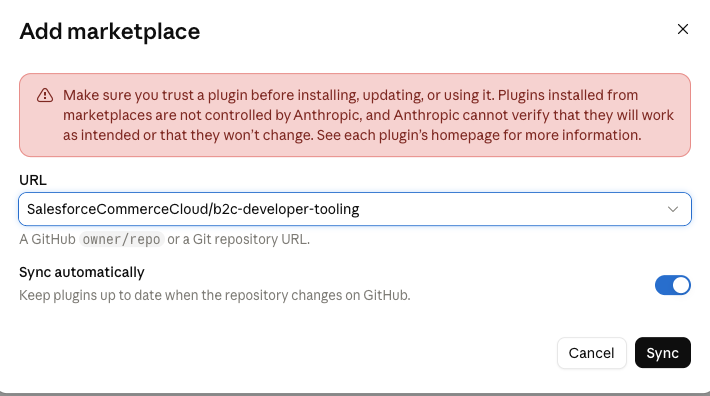
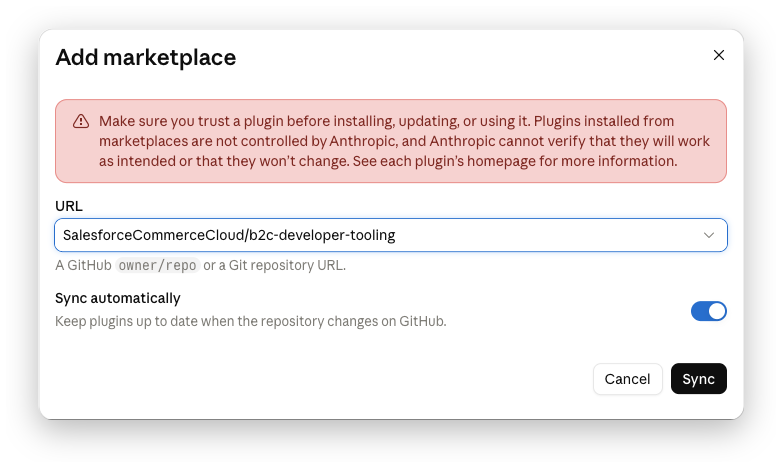
Add Desktop Assistants screenshots and Codex desktop install steps
Replace the placeholders with app-window screenshots, rename the Claude
Cowork section to Claude Desktop (Cowork), and document installing the
plugin from the Codex desktop app.

diff --git a/docs/guide/desktop-assistants.md b/docs/guide/desktop-assistants.md
@@ -4,20 +4,20 @@ description: Install the B2C Commerce MCP server and skills in Claude Cowork, Cl
 
 # Desktop Assistants
 
-Claude Cowork and ChatGPT Work run B2C Commerce tasks from the desktop, outside a
+Claude Desktop (Cowork) and ChatGPT Work run B2C Commerce tasks from the desktop, outside a
 code editor or terminal. Each app installs plugins from its own source, so a plugin
 installed in one Claude or ChatGPT surface is not always available in another.
 
 The **b2c-dx-mcp** plugin includes the [B2C MCP](../mcp/) tools, documentation,
 and [skill collections](./agent-skills). No separate skills installation is needed.
 
-| Surface                     | Where plugins come from      | Setup                                    |
-| --------------------------- | ---------------------------- | ---------------------------------------- |
-| Claude Cowork               | Marketplaces added in Cowork | [Claude Cowork](#claude-cowork)          |
-| Claude Desktop **Code** tab | Claude Code plugins          | [Claude Code setup](../mcp/#setup)       |
-| Claude Desktop chat         | Desktop MCP configuration    | [Claude Desktop](../mcp/#claude-desktop) |
-| ChatGPT Work                | Codex plugins                | [ChatGPT Work](#chatgpt-work)            |
-| ChatGPT online              | Secure MCP Tunnel            | [ChatGPT online](../mcp/#chatgpt)        |
+| Surface                         | Where plugins come from              | Setup                                     |
+| ------------------------------- | ------------------------------------ | ----------------------------------------- |
+| Claude Desktop (Cowork)         | Marketplaces added in Claude Desktop | [Claude Desktop (Cowork)](#claude-cowork) |
+| Claude Desktop **Code** tab     | Claude Code plugins                  | [Claude Code setup](../mcp/#setup)        |
+| Claude Desktop without a plugin | Desktop MCP configuration            | [Manual setup](../mcp/#claude-desktop)    |
+| ChatGPT Work                    | Codex plugins                        | [ChatGPT Work](#chatgpt-work)             |
+| ChatGPT online                  | Secure MCP Tunnel                    | [ChatGPT online](../mcp/#chatgpt)         |
 
 ## Before you start
 
@@ -25,75 +25,80 @@ Install [Node.js](https://nodejs.org/) 22.16.0 or higher. The plugin starts the
 MCP server on your computer with `npx`. Connected tasks use your existing
 [B2C Commerce configuration](./configuration).
 
-## Claude Cowork {#claude-cowork}
+## Claude Desktop (Cowork) {#claude-cowork}
 
-Cowork installs plugins separately from Claude Code. Plugins installed with
-`claude plugin install` are available in the Desktop **Code** tab, not in Cowork.
+Claude Desktop runs tasks from **Home**; this was previously the separate Cowork
+mode. It installs plugins separately from Claude Code. Plugins installed with
+`claude plugin install` are available in the **Code** tab, not on **Home**.
 
 1. Add a marketplace with the URL `SalesforceCommerceCloud/b2c-developer-tooling`.
    Keep **Sync automatically** on to receive updates.
 
    [![Claude Add marketplace dialog with SalesforceCommerceCloud/b2c-developer-tooling entered as the URL and Sync automatically turned on.](/screenshots/claude-cowork-add-marketplace.png)](/screenshots/claude-cowork-add-marketplace.png)
 
-2. Install **b2c-dx-mcp**. Cowork confirms that the plugin runs a local MCP server
-   with access to everything available to Cowork.
+2. Install **b2c-dx-mcp**. Claude warns that the plugin runs a local MCP server
+   with access to everything available to Cowork. Select **Continue**.
 
-   ![Screenshot placeholder: Cowork confirming that the b2c-dx-mcp plugin includes a local MCP server.](/placeholders/cowork-install-mcp.svg)
+   [![Cowork dialog warning that the B2C DX MCP plugin includes the local b2c-dx-mcp server, with Disable plugin and Continue buttons.](/screenshots/claude-cowork-install-mcp.png)](/screenshots/claude-cowork-install-mcp.png)
 
 3. Optionally install skill collections such as **b2c**, **b2c-cli**, or **b2c-ops**
    to load their guidance directly. The MCP already provides them through
    [`skills_read`](../mcp/toolsets#documentation).
-4. Start a new Cowork task.
+4. Start a new task from **Home**. If your message box still shows **Chat** and
+   **Cowork** options, choose **Cowork**.
 
 <ExamplePrompt>
 
-> Were there any problems with last night's jobs on my site? Let me know what needs attention.
+> Were there any failing jobs recently on my site?
 
 </ExamplePrompt>
 
-![Screenshot placeholder: a Cowork task reviewing last night's job runs with B2C MCP tools.](/placeholders/cowork-b2c-task.svg)
-
-::: warning Artifacts and live data
-Cowork artifacts, such as dashboards, cannot call the B2C MCP tools directly yet;
-calls from an artifact fail with `Tool call failed: 400`. Ask Cowork to embed the
-data in the artifact instead, and use a scheduled task to refresh it, for example
-every weekday morning. A **Refresh now** button in the artifact can run that task
-on demand. For live data, ask for a dashboard that runs on your computer instead.
-:::
+[![A Claude Desktop task answering "Were there any failing jobs recently on bdpx-prd?" after using 6 B2C MCP tools, with a table of two failing system jobs, their failure counts, and failure patterns.](/screenshots/claude-cowork-b2c-task.png)](/screenshots/claude-cowork-b2c-task.png)
 
 ## ChatGPT Work {#chatgpt-work}
 
 ChatGPT Work uses the plugins installed for Codex. If you already installed the
 B2C plugin for the Codex CLI or IDE extension, it is available in ChatGPT Work.
-Otherwise, install it with the Codex CLI:
+Otherwise, install it from the Codex desktop app:
+
+1. Open **Settings > Plugins** and select **Add > Add marketplace**. Enter
+   `SalesforceCommerceCloud/b2c-developer-tooling` as the source, leave the
+   other fields empty, and select **Add marketplace**.
+
+   [![Codex Add plugin marketplace dialog with SalesforceCommerceCloud/b2c-developer-tooling entered as the source.](/screenshots/codex-add-marketplace.png)](/screenshots/codex-add-marketplace.png)
+
+2. Open **Plugins**, select the **Personal** tab, choose **B2C DX MCP**, and
+   select **Install plugin**.
+
+   [![Codex plugin page for B2C DX MCP from the B2C Developer Tooling marketplace, showing the Install plugin button and the b2c-dx-mcp server.](/screenshots/codex-install-mcp.png)](/screenshots/codex-install-mcp.png)
+
+To install from a terminal instead, use the Codex CLI:
 
 <!--@include: ../_partials/mcp-plugin-codex.md-->
-
-![Screenshot placeholder: the B2C Developer Tooling plugins available in ChatGPT Work.](/placeholders/chatgpt-work-install.svg)
 
 Start a new ChatGPT Work task. To update or remove the plugin, use the
 [Codex commands](./agent-skills#codex).
 
 <ExamplePrompt>
 
-> Summarize the promotions in campaign spring-sale. Flag schedule conflicts and disabled promotions.
+> Summarize the current promotions and campaigns on my site. Any schedule conflicts?
 
 </ExamplePrompt>
 
-![Screenshot placeholder: ChatGPT Work reviewing campaign promotions with B2C MCP tools.](/placeholders/mcp-chatgpt-campaign.svg)
+[![ChatGPT Work listing schedule overlaps across a site's campaigns: open-ended seasonal offers, overlapping order, shipping, and product discounts, and a test campaign still active.](/screenshots/chatgpt-work-campaign.png)](/screenshots/chatgpt-work-campaign.png)
 
 ChatGPT online in a browser does not use Codex plugins. To connect it, see
 [ChatGPT online](../mcp/#chatgpt).
 
 ## Troubleshooting
 
-| Problem                   | What to check                                                                                                               |
-| ------------------------- | --------------------------------------------------------------------------------------------------------------------------- |
-| Plugin is missing         | Check that you installed it for this surface. Cowork and Claude Code install separately; ChatGPT Work shares Codex plugins. |
-| Server does not start     | Run `node --version` and confirm Node.js 22.16.0 or higher. Restart the app after installing Node.js.                       |
-| Wrong project or instance | Specify the intended project or named instance in your request.                                                             |
-| Old tools or skills       | Update the marketplace or plugin, then start a new task.                                                                    |
-| Artifact shows no data    | Cowork artifacts cannot call local MCP tools. Embed the data and refresh it with a scheduled task.                          |
+| Problem                   | What to check                                                                                                                                |
+| ------------------------- | -------------------------------------------------------------------------------------------------------------------------------------------- |
+| Plugin is missing         | Check that you installed it for this surface. Claude Desktop (Cowork) and Claude Code install separately; ChatGPT Work shares Codex plugins. |
+| Server does not start     | Run `node --version` and confirm Node.js 22.16.0 or higher. Restart the app after installing Node.js.                                        |
+| Wrong project or instance | Specify the intended project or named instance in your request.                                                                              |
+| Old tools or skills       | Update the marketplace or plugin, then start a new task.                                                                                     |
+| Artifact shows no data    | Cowork artifacts cannot call local MCP tools. Embed the data and refresh it with a scheduled task.                                           |
 
 See [MCP troubleshooting](../mcp/#troubleshooting) for authentication and
 configuration issues.

diff --git a/docs/mcp/index.md b/docs/mcp/index.md
@@ -27,7 +27,7 @@ Our plugins use the open [Agent Plugins standard](https://agent-plugins.org/).
 
 </AssistantInstall>
 
-For Claude Cowork and ChatGPT Work, see [Desktop Assistants](../guide/desktop-assistants).
+For Claude Desktop (Cowork) and ChatGPT Work, see [Desktop Assistants](../guide/desktop-assistants).
 For [Claude Desktop](#claude-desktop), [Copilot CLI](#copilot-cli), [ChatGPT online](#chatgpt),
 and other clients, see [Other clients](#other-clients).
 
@@ -127,8 +127,8 @@ can help your assistant recognize when to use B2C tools and skills.
 
 ### Claude Desktop {#claude-desktop}
 
-For Cowork, install the plugin instead; see [Claude Cowork](../guide/desktop-assistants#claude-cowork).
-For Claude Desktop chat, open **Settings > Developer > Edit Config** and add:
+To run tasks from Claude Desktop **Home** (Cowork), install the plugin instead; see [Claude Desktop (Cowork)](../guide/desktop-assistants#claude-cowork).
+To set up Claude Desktop without the plugin, open **Settings > Developer > Edit Config** and add:
 
 <!--@include: ../_partials/mcp-manual-json.md-->
 

diff --git a/docs/guide/index.md b/docs/guide/index.md
@@ -39,8 +39,8 @@ Choose your assistant. Use the **B2C MCP plugin** where supported.
 <!--@include: ../_partials/mcp-plugin-install.md-->
 
 Start a new session in your project. For **Copilot in VS Code**, other clients,
-and manual setup, see [installation](../mcp/#setup). For Claude Cowork and
-ChatGPT Work, see [Desktop Assistants](./desktop-assistants).
+and manual setup, see [installation](../mcp/#setup). For Claude Desktop
+(Cowork) and ChatGPT Work, see [Desktop Assistants](./desktop-assistants).
 
 Documentation and skills work immediately without B2C Commerce credentials.
 Connected tasks use your [existing B2C configuration](../mcp/configuration).

diff --git a/docs/guide/agent-skills.md b/docs/guide/agent-skills.md
@@ -110,7 +110,7 @@ claude plugin marketplace remove b2c-developer-tooling
 #### Claude Desktop and Cowork {#claude-cowork}
 
 Local sessions in the Claude Desktop **Code** tab use the Claude Code plugins installed above.
-Cowork installs plugins separately; see [Claude Cowork](./desktop-assistants#claude-cowork).
+Tasks on **Home** (formerly Cowork) install plugins separately; see [Claude Desktop (Cowork)](./desktop-assistants#claude-cowork).
 
 </template>
 <template #copilot-title>

diff --git a/docs/_partials/mcp-setup-claude.md b/docs/_partials/mcp-setup-claude.md
@@ -16,4 +16,4 @@ See [Claude Code MCP setup](https://code.claude.com/docs/en/mcp).
 
 </details>
 
-[Claude Cowork setup](/guide/desktop-assistants#claude-cowork) · [Claude Desktop setup](/mcp/#claude-desktop)
+[Claude Desktop (Cowork) setup](/guide/desktop-assistants#claude-cowork) · [Claude Desktop manual setup](/mcp/#claude-desktop)
